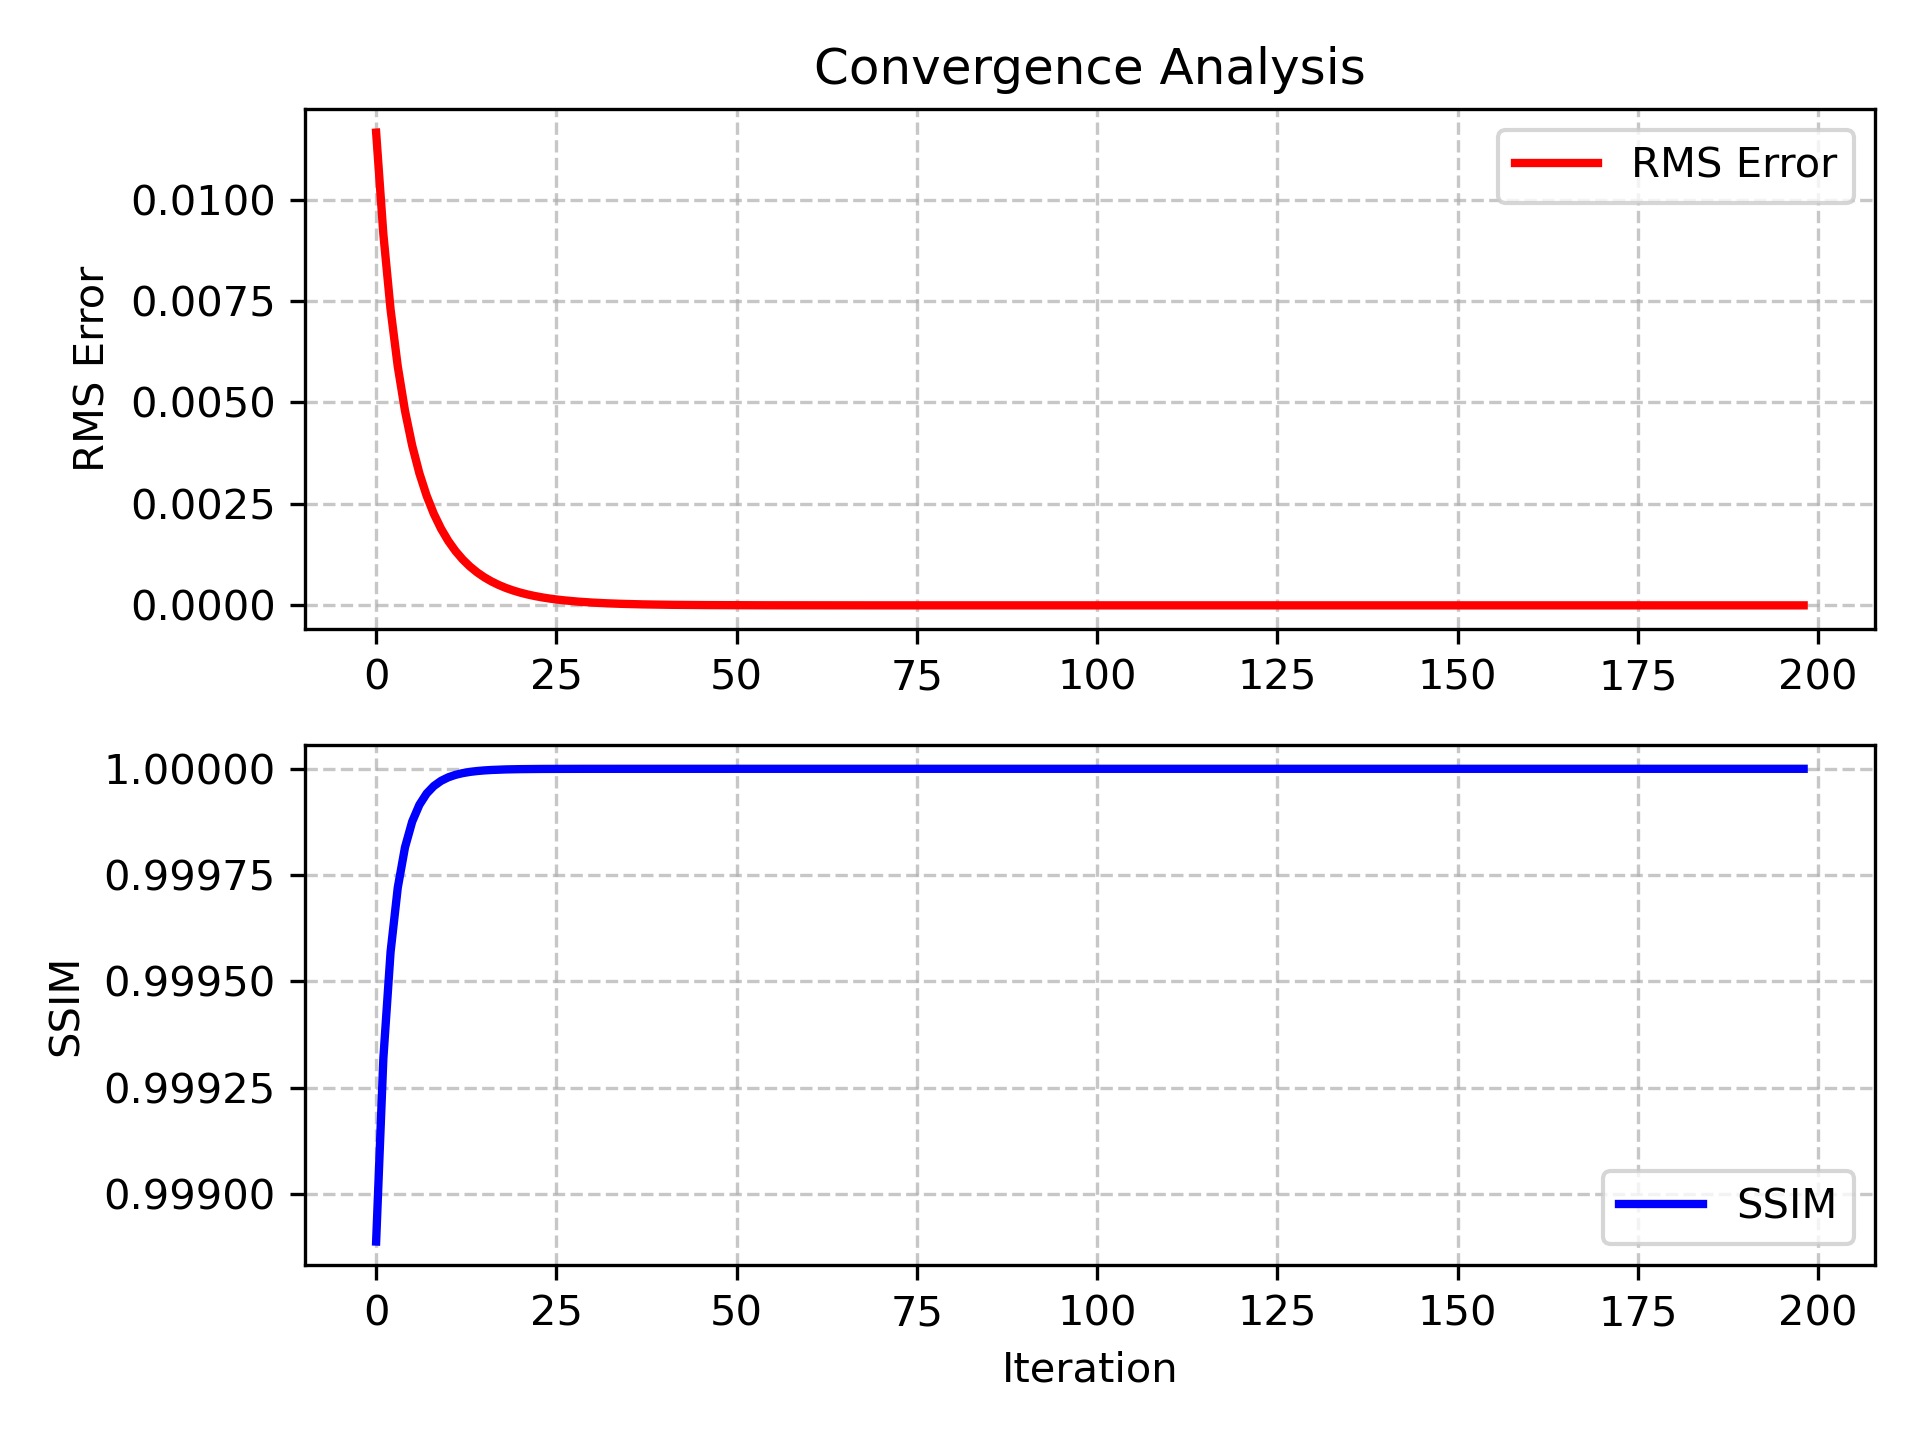
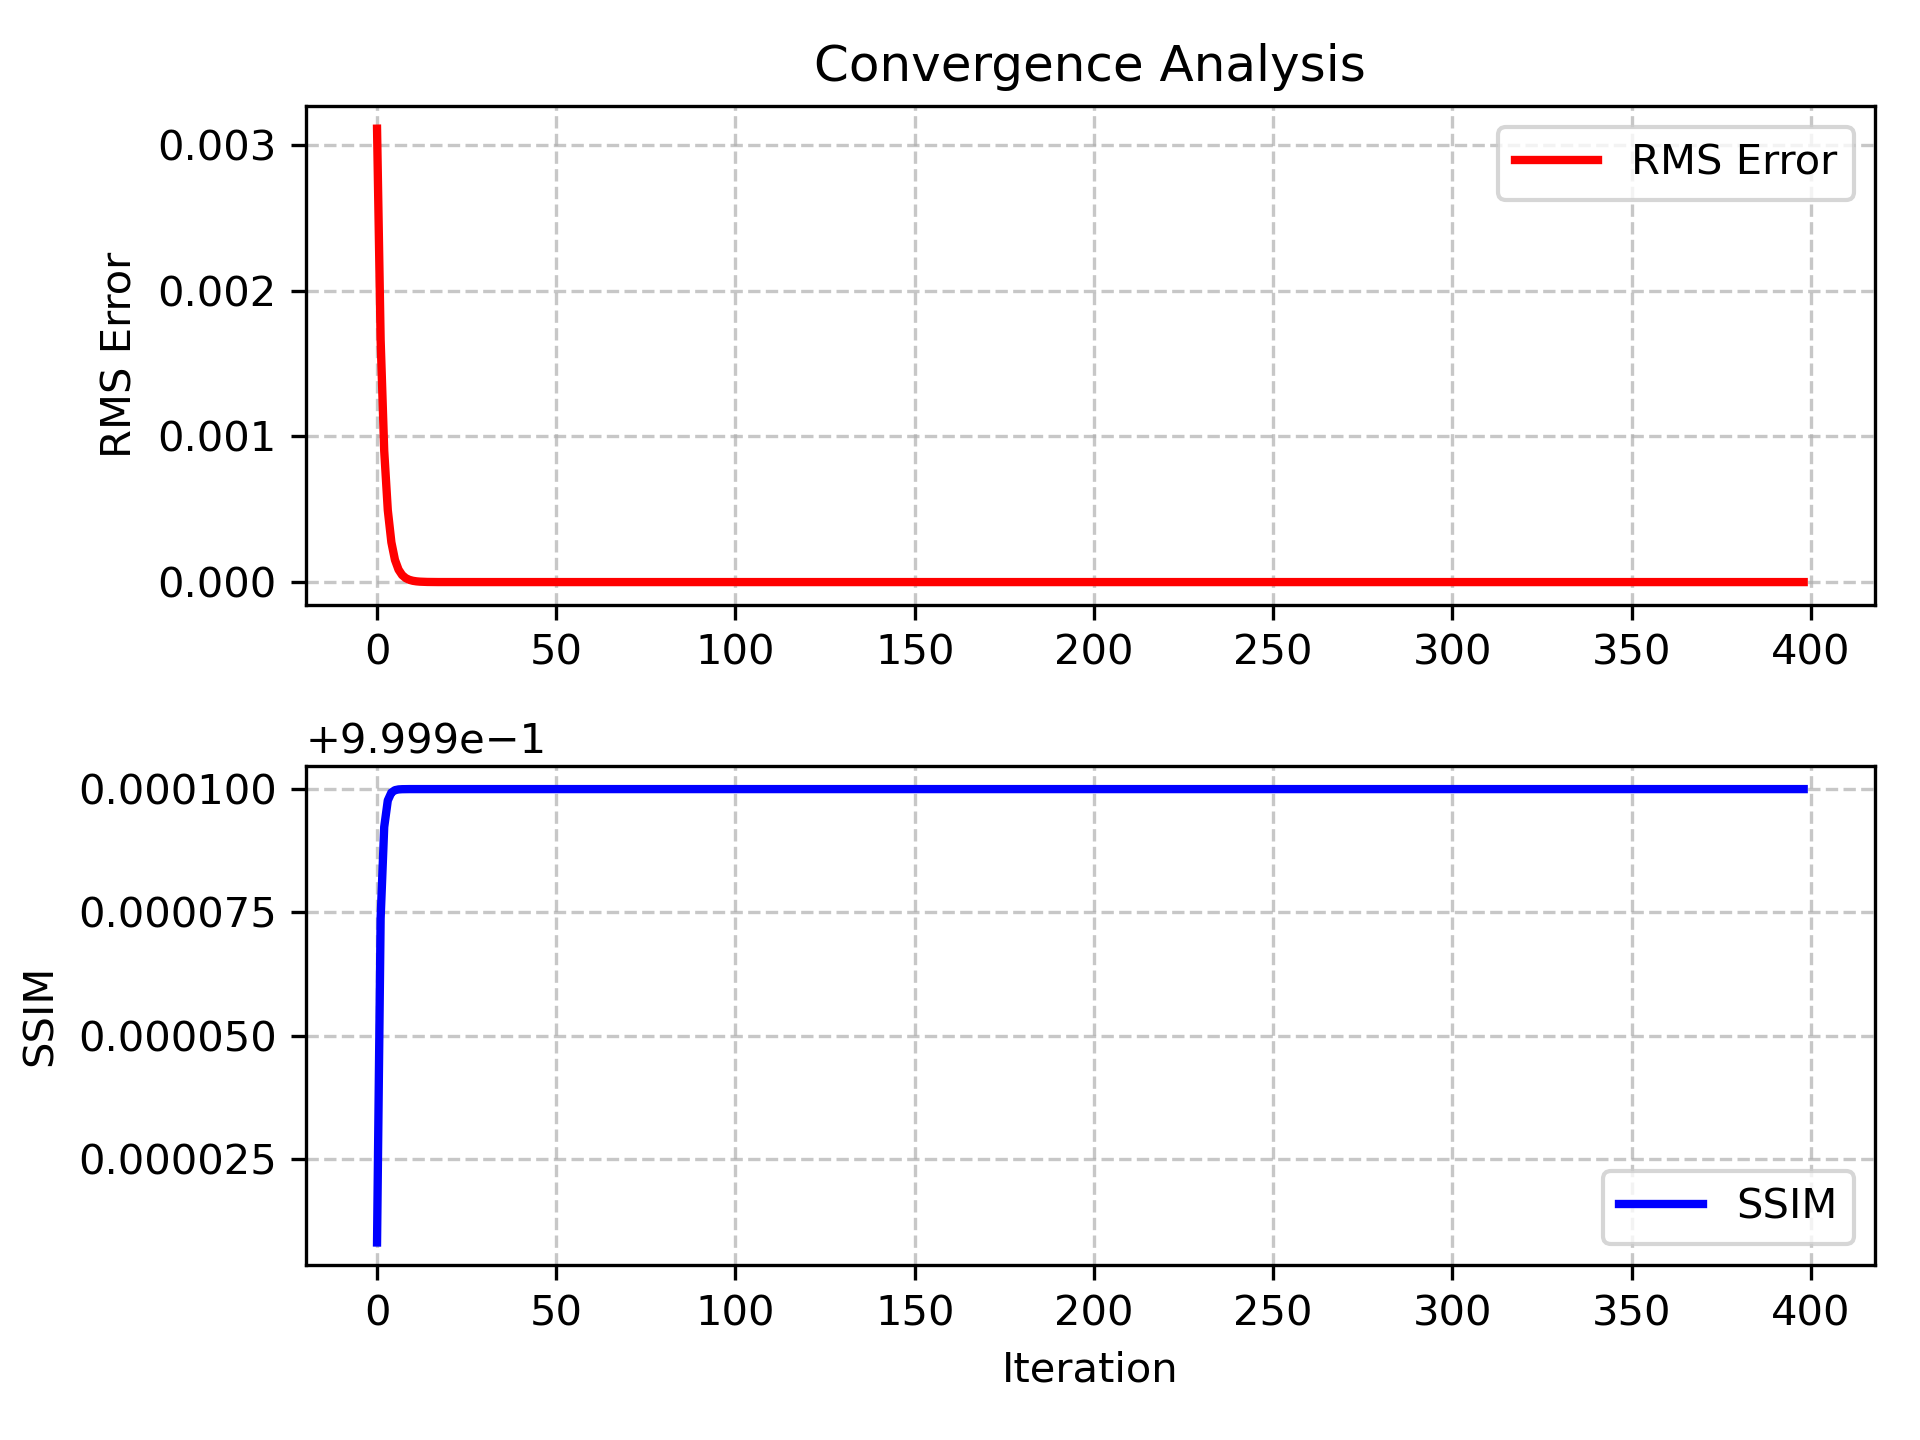
1

diff --git a/trash2.py b/trash2.py
@@ -3,9 +3,11 @@ import matplotlib.pyplot as plt
 from numpy.fft import fft2, ifft2, fftshift, ifftshift
 from PIL import Image
 from skimage.metrics import structural_similarity as ssim
+from scipy.ndimage import zoom
+
 
 # --- 设定不同像素尺寸的传感器 ---
-sensor_pixel_sizes = [0.2e-6, 4e-6]  # 0.2µm, 0.8µm, 1.6µm
+sensor_pixel_sizes = [0.2e-6, 0.8e-6, 1.6e-6, 2.4e-6]  # 0.2µm, 0.8µm, 1.6µm
 numPixels_original = 1024  # 原始分辨率
 FOV = numPixels_original * sensor_pixel_sizes[0]  # 固定视场范围
 z2 = 0.005  # 传播距离
@@ -29,9 +31,22 @@ def Transfer_function(W, H, distance, wavelength, pixelSize, numPixels):
     temp = np.exp(1j * k * distance * square_root)
     return temp
 
+
+def resize_transfer_function(transfer, new_shape):
+    zoom_factors = (new_shape[0] / transfer.shape[0], new_shape[1] / transfer.shape[1])
+
+    # 先使用最近邻插值，避免新值
+    resized = zoom(transfer, zoom_factors, order=0)
+
+    # 让所有插值的值变为 0（保持原始点）
+    mask = zoom(np.ones_like(transfer), zoom_factors, order=0)  # 原始点为1，其它点为0
+    resized = resized * mask  # 只保留原始点，其余变0
+    return resized
+
 def angular_spectrum_method(field, pixelSize, distance, W, H, numPixels):
     GT = fftshift(fft2(ifftshift(field)))
     transfer = Transfer_function(W, H, distance, 532e-9, pixelSize, numPixels)
+    transfer = resize_transfer_function(transfer, field.shape)
     gt_prime = fftshift(ifft2(ifftshift(GT * transfer)))
     return gt_prime
 
@@ -60,6 +75,7 @@ for pixelSize in sensor_pixel_sizes:
 
     # --- 计算全息图 ---
     hologram_field = angular_spectrum_method(field_after_object, pixelSize, z2, W, H, numPixels)
+    print(hologram_field.size)
     hologram_amplitude = np.abs(hologram_field)
 
     plt.figure(figsize=(6, 6))
@@ -143,7 +159,7 @@ for pixelSize in sensor_pixel_sizes:
         return last_field, rms_errors, ssim_errors
 
     # --- 运行 IPR ---
-    field_ite, rms_errors, ssim_errors = IPR(hologram_amplitude, z2, 200, 1.5e-20, pixelSize, W, H, numPixels)
+    field_ite, rms_errors, ssim_errors = IPR(hologram_amplitude, z2, 400, 1.5e-20, pixelSize, W, H, numPixels)
 
     # --- 反向传播获得最终重建图像 ---
     IPR_object = angular_spectrum_method(field_ite, pixelSize, -z2, W, H, numPixels)

diff --git a/trash.py b/trash.py
@@ -1,47 +1,6 @@
-import numpy as np
-from numpy.fft import fft2, ifft2, fftshift, ifftshift
+x = 7
+i = 2
+a = 1
+y = int(x / )
+print(y)
 
-# --- 频域插值 + 低通滤波 ---
-def resize_fourier_lowpass(img, new_size):
-    old_size = img.shape[0]
-    img_ft = fftshift(fft2(ifftshift(img)))  # 计算傅里叶变换
-
-    new_ft = np.zeros((new_size, new_size), dtype=np.complex64)
-
-    center = old_size // 2
-    new_center = new_size // 2
-    half_size = min(new_center, center)
-
-    new_ft[new_center - half_size : new_center + half_size,
-           new_center - half_size : new_center + half_size] = \
-          img_ft[center - half_size : center + half_size,
-                 center - half_size : center + half_size]
-
-    # 应用高斯低通滤波器
-    X, Y = np.meshgrid(np.linspace(-1, 1, new_size), np.linspace(-1, 1, new_size))
-    lowpass_filter = np.exp(- (X**2 + Y**2) * 10)  # 调整参数以控制频率范围
-    new_ft *= lowpass_filter
-
-    resized_img = fftshift(ifft2(ifftshift(new_ft))).real  # 逆变换
-    return resized_img
-
-# --- 定义参数 ---
-original_pixels = 1024
-original_pixel_size = 0.2e-6
-new_pixel_size = 1.6e-6
-FOV = original_pixels * original_pixel_size
-new_pixels = int(FOV / new_pixel_size)
-
-# --- 读取原始 .npy 文件 ---
-input_npy = "original_data.npy"
-output_npy = "resized_data.npy"
-
-data = np.load('hologram.npy').astype(np.float32)  # 确保 float32
-original_max = np.max(data)
-data /= original_max  # 归一化
-resized_data = resize_fourier_lowpass(data, new_pixels)  # 采用低通傅里叶插值
-resized_data *= original_max  # 反归一化
-
-# --- 确保数据格式正确并保存 ---
-resized_data = np.squeeze(resized_data).astype(np.float32)  # 确保 2D
-np.save(output_npy, resized_data)
